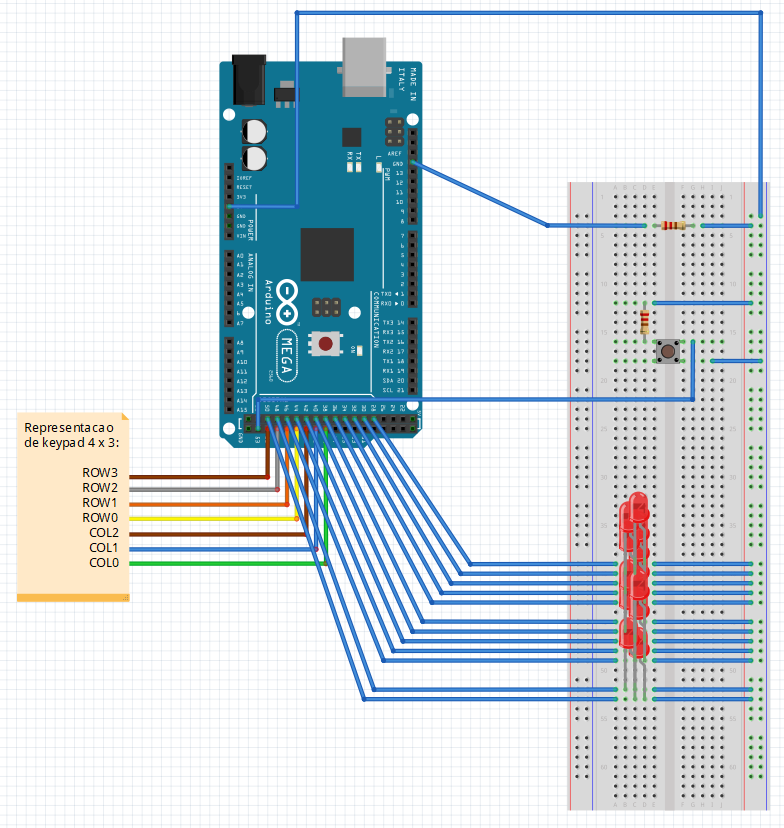
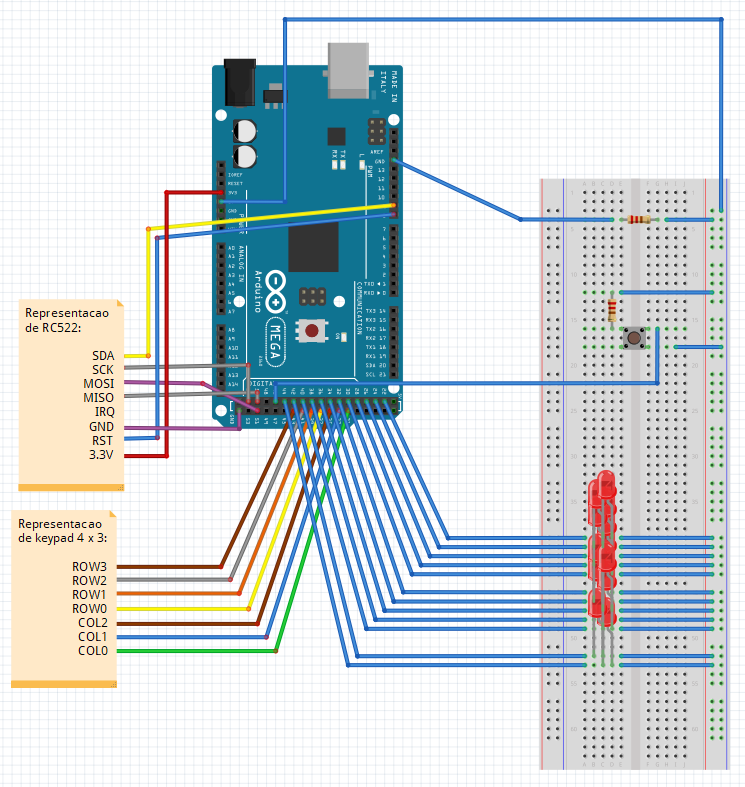
FIRMWARE / DOCUMENTATION / Adapta RFID ao codigo e circuito atuais

Changed region(s): [[0.0, 0.0, 0.9879, 0.9759]]

diff --git a/src/firmware/doc/00-prototipo-com-arduino-mega.md b/src/firmware/doc/00-prototipo-com-arduino-mega.md
@@ -67,4 +67,76 @@
   * Cria esquema de ligacao simplificado usando Fritzing Software;
   * Salva imagem do esquema de ligacao com nome 'schematics' na pasta 'firmware/doc';
 
+## RFID Validation
 
+  Objetivo: substituir push button por leitor RFID para validacao do usuario.
+
+  * Libera pinos 50, 51, 53 (pinos padrao para leitor RFID):
+    * Readapta pinos e cria novo schematics;
+  
+  * Testa codigo simples conforme tutorial:
+    * https://www.instructables.com/id/Interfacing-RFID-RC522-With-Arduino-MEGA-a-Simple-/
+
+    ```c++
+    /*
+    PINOUT:
+    RC522 MODULE    Uno/Nano     MEGA
+    SDA             D10          D9
+    SCK             D13          D52
+    MOSI            D11          D51
+    MISO            D12          D50
+    IRQ             N/A          N/A
+    GND             GND          GND
+    RST             D9           D8
+    3.3V            3.3V         3.3V
+    */
+    /* Include the standard Arduino SPI library */
+    #include <SPI.h>
+    /* Include the RFID library */
+    #include <RFID.h>
+
+    /* Define the DIO used for the SDA (SS) and RST (reset) pins. */
+    #define SDA_DIO 9
+    #define RESET_DIO 8
+    /* Create an instance of the RFID library */
+    RFID RC522(SDA_DIO, RESET_DIO); 
+
+    void setup()
+    { 
+      Serial.begin(9600);
+      /* Enable the SPI interface */
+      SPI.begin(); 
+      /* Initialise the RFID reader */
+      RC522.init();
+    }
+
+    void loop()
+    {
+      /* Has a card been detected? */
+      if (RC522.isCard())
+      {
+        /* If so then get its serial number */
+        RC522.readCardSerial();
+        Serial.println("Card detected:");
+        for(int i=0;i<5;i++)
+        {
+        Serial.print(RC522.serNum[i],DEC);
+        //Serial.print(RC522.serNum[i],HEX); //to print card detail in Hexa Decimal format
+        }
+        Serial.println();
+        Serial.println();
+      }
+      delay(200);
+    }
+
+    ```
+
+  * Adapta partes do codigo acima ao main.ino e testa funcionalidades separadamente sem excluir funcionalidade do botao;
+
+  * Substitui funcionalidade do push button por isCard do RFID.
+    * Se cartao lido -> buttonState = HIGH
+
+  
+
+
+     
